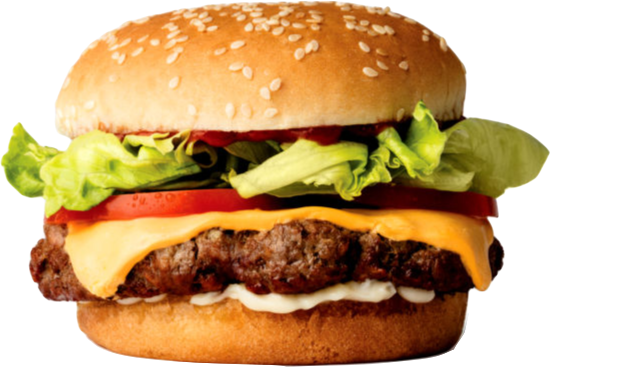
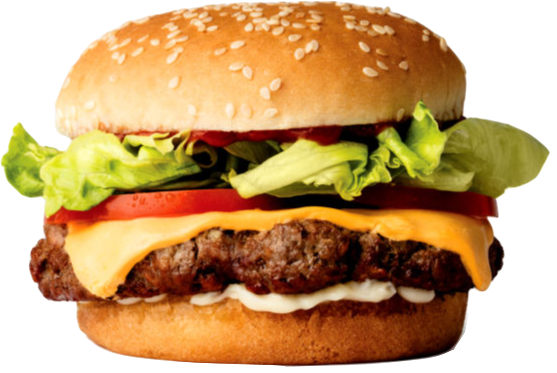
Adds burger image, adds css styling

diff --git a/public/assets/css/burger_style.css b/public/assets/css/burger_style.css
@@ -1,3 +1,48 @@
 body {
     background-color: goldenrod;
 }
+
+#burgerImg {
+    width: 30%;
+    display: block;
+    margin: 20px auto;
+}
+
+h1 {
+    text-align: center;
+    font-size: 4em;
+    text-decoration: underline;
+    text-decoration-color: red;
+    color: white;
+    margin-bottom: 20px;
+}
+
+.row {
+    text-align: center;
+}
+
+h2 {
+    text-decoration: underline;
+}
+
+p {
+    margin-bottom: 5px;
+}
+
+.devourBtn {
+    margin-bottom: 25px;
+}
+
+form {
+    margin-top: 50px;
+}
+
+label {
+    text-decoration: underline;
+    font-weight: bold;
+}
+
+#burgerName {
+    width: 50%;
+    margin: 0 auto;
+}
